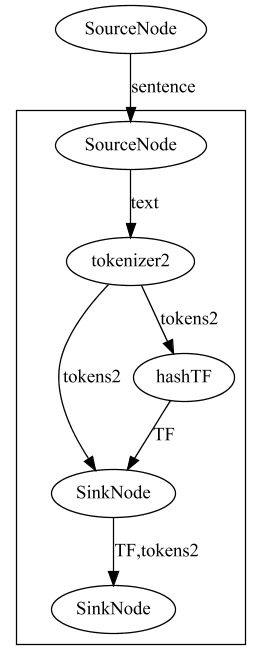
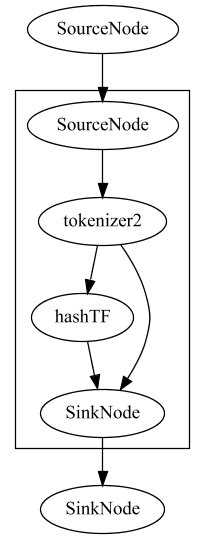
finally fixed the viz issue

Changed region(s): [[0.0585, 0.0, 0.9659, 1.0]]

diff --git a/src/main/java/core/graphPipeline/basic/SGraph.java b/src/main/java/core/graphPipeline/basic/SGraph.java
@@ -388,8 +388,7 @@ public class SGraph extends Vertex {
     }
 
     public MutableGraph getVizGraph() {
-        MutableGraph g = mutGraph(getVertexId()).setDirected(true);
-        Map<Vertex, LinkSource> nodeMap = new HashMap<>();
+        MutableGraph g = mutGraph(getVertexId()).setDirected(true).setCluster(true);
         for (Vertex vertex : this.getNodes()) {
             if (vertex instanceof SNode) {
                 SNode v = (SNode) vertex;
@@ -401,40 +400,29 @@ public class SGraph extends Vertex {
                     nodeTitle = "SinkNode";
                 }
                 MutableNode vNode = mutNode(v.getVertexId()).add(Label.of(nodeTitle));
-                nodeMap.put(v, vNode);
+                for (Vertex outputNode : v.getOutputVertices()) { //note: sink node have no outputVertices, parent graph hold this information
+                    if (outputNode instanceof SNode) {
+                        vNode = vNode.addLink(outputNode.getVertexId());
+                    } else {
+                        SGraph subGraph = (SGraph) outputNode;
+                        SNode innerSource = subGraph.sourceNode;
+                        MutableGraph innerGraph = subGraph.getVizGraph();// create inner graph, this graph is implicitly added to the parent
+                        vNode = vNode.addLink(innerSource.getVertexId());
+                    }
+                }
+                g.add(vNode);
+
             } else {
                 SGraph v = (SGraph) vertex;
                 MutableGraph subGraph = v.getVizGraph();
-                nodeMap.put(v, subGraph);
+                Vertex sinkNode = v.sinkNode;
+                MutableNode innerSink = mutNode(sinkNode.getVertexId());
+                for (Vertex outputNode : vertex.getOutputVertices()) {
+                    innerSink = innerSink.addLink(outputNode.getVertexId());
+                }
+                g.add(innerSink, subGraph);
             }
         }
-        for (Vertex sourceVertex : nodeMap.keySet()) {
-            LinkSource from = nodeMap.get(sourceVertex);
-            String linkLabel = createLinkLabel(sourceVertex);
-            if (from instanceof MutableNode) {
-                MutableNode fromNode = (MutableNode) from;
-                for (Vertex targetVertex : sourceVertex.getOutputVertices()) {
-                    LinkTarget toTarget;
-                    if (targetVertex instanceof SGraph) {
-                        Vertex subGrpahSourceNode = ((SGraph) targetVertex).sourceNode;
-                        toTarget = mutNode(subGrpahSourceNode.getVertexId());
-                    } else {
-                        toTarget = nodeMap.get(targetVertex).asLinkTarget();
-                    }
-                    fromNode.links().add(fromNode.linkTo(toTarget).with(Label.of(linkLabel)));
-                }
-            } else {
-                MutableGraph fromSubGraph = (MutableGraph) from;
-                fromSubGraph = fromSubGraph.setCluster(true);
-                Vertex fromSubGraphSinkNode = ((SGraph) sourceVertex).sinkNode;
-                LinkSource sinkNode = fromSubGraph.nodes().stream().filter(x -> x.name().value().equals(fromSubGraphSinkNode.getVertexId())).findFirst().get();
-                for (Vertex targetVertex : sourceVertex.getOutputVertices()) {
-                    LinkTarget toTarget = nodeMap.get(targetVertex).asLinkTarget();
-                    sinkNode.links().add(sinkNode.linkTo(toTarget).with(Label.of(linkLabel)));
-                }
-            }
-        }
-        g = g.add(nodeMap.values().toArray(new LinkSource[0]));
         return g;
     }
 

diff --git a/src/test/java/OptimizationTest.java b/src/test/java/OptimizationTest.java
@@ -3,11 +3,20 @@ import core.graphPipeline.basic.SNode;
 import examples.TestBase;
 import featurePipeline.DummyStage;
 import featurePipeline.SGraphIOStage;
+import guru.nidi.graphviz.engine.Format;
+import guru.nidi.graphviz.engine.Graphviz;
+import guru.nidi.graphviz.model.MutableGraph;
+import guru.nidi.graphviz.model.MutableNode;
 import org.apache.spark.ml.feature.HashingTF;
 import org.apache.spark.ml.feature.Tokenizer;
 import org.apache.spark.sql.Dataset;
 import org.apache.spark.sql.Row;
 import org.junit.Test;
+
+import java.io.File;
+import java.io.IOException;
+
+import static guru.nidi.graphviz.model.Factory.*;
 
 /**
  *
@@ -147,6 +156,35 @@ public class OptimizationTest extends TestBase {
         Dataset<Row> result = graph.toPipeline().fit(dataset).transform(dataset);
         graph.showGraph("subGraphOptimization_after_optimize");
         result.show();
+    }
+
+    @Test
+    public void graphvizTest() throws IOException {
+//        MutableGraph subGraph = mutGraph("subgraph");
+//        MutableNode subSource = mutNode("source");
+//        MutableNode subSink = mutNode("sink1");
+//        subGraph.add(subSource.addLink(subSink));
+//        subGraph.setCluster(true);
+//
+//        MutableGraph g = mutGraph("partentGraph");
+//        MutableNode sourceNode = mutNode("sourceNode").addLink("tokenizer").addLink("source");
+//        MutableNode tokenizer = mutNode("tokenizer").addLink("sink2");
+//        g.add(subSink.addLink("sink2"));
+//        g.add(sourceNode, tokenizer);
+//        g.add(subGraph);
+
+        MutableGraph sub = mutGraph("sub").add(
+                node("source").link("sink1"),
+                node("sink1").link("sink2"));
+        sub.rootNodes().remove(node("sink1"));
+        sub.rootNodes().remove(node("sink2"));
+        MutableGraph g = mutGraph().add(
+                node("sourceNode").link("tokenizer").link("source"),
+                node("tokenizer").link("sink2")
+        );
+        g.add(sub.setCluster(true));
+        Graphviz.fromGraph(g).render(Format.PNG).toFile(new File(String.format("figures/%s.png", "test")));
+
     }
 
 }
